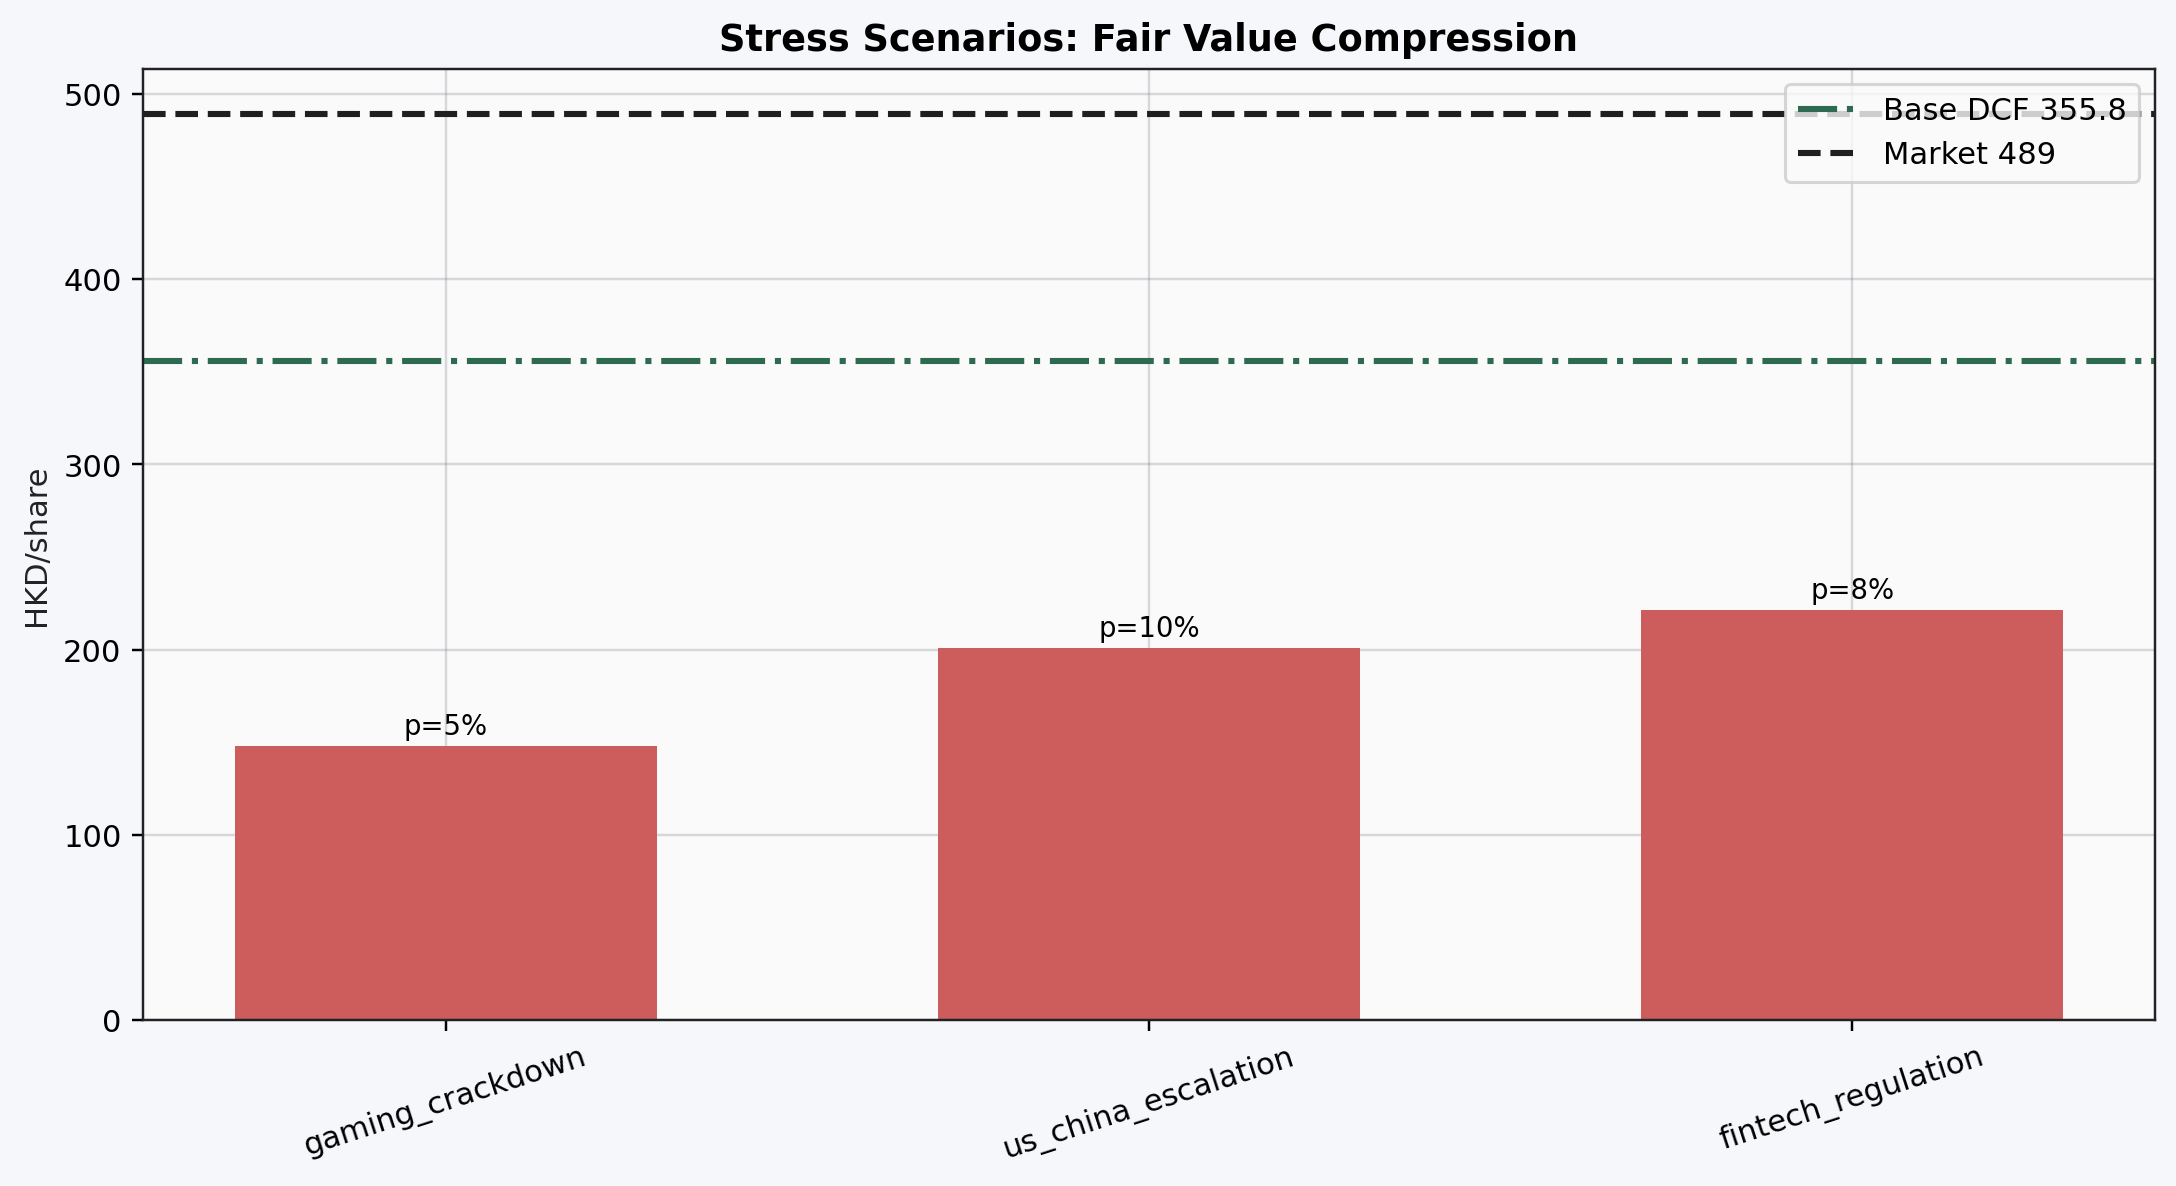
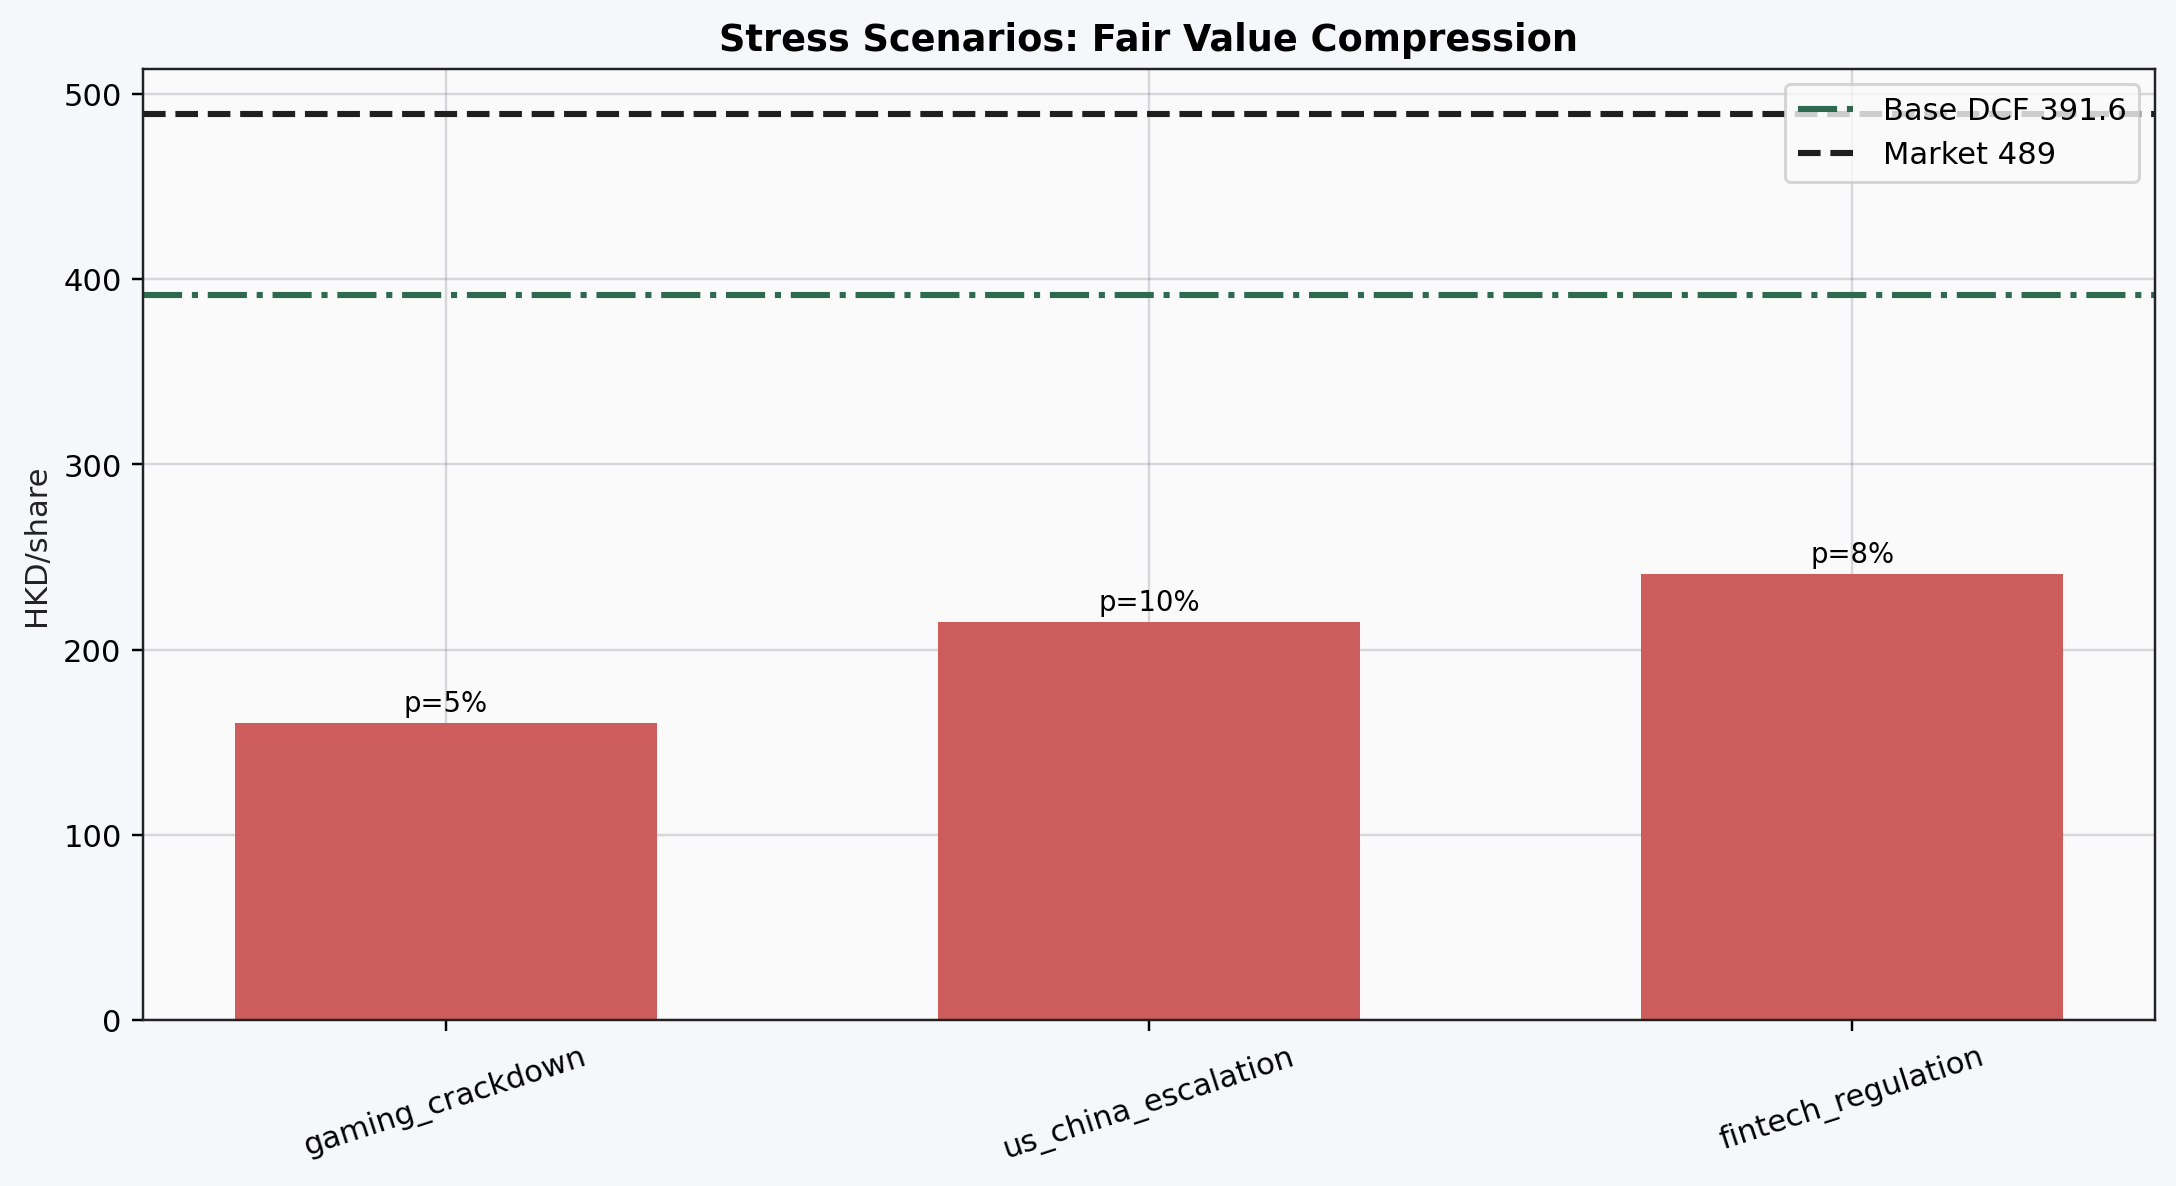
feat: raise base terminal_g to 3.5% and refresh charts
Ensemble base fair value: 386 → 407 HKD (−17% vs spot 489).
QA clean: 0 warnings / 0 failures / investor_grade=True.

diff --git a/README.md b/README.md
@@ -10,17 +10,17 @@
 
 | Method | Fair Value (HKD) | vs. Spot |
 |---|---|---|
-| DCF (FCFF, 7-year) | 355.83 | −27% |
-| APV | 346.39 | −29% |
-| EVA | 367.71 | −25% |
-| Monte Carlo (10k paths) | 362.15 | −26% |
-| Real Options | 366.83 | −25% |
-| Residual Income | 260.50 | −47% |
+| DCF (FCFF, 7-year) | 391.64 | −20% |
+| APV | 373.26 | −24% |
+| EVA | 379.26 | −22% |
+| Monte Carlo (10k paths) | 399.33 | −18% |
+| Real Options | 402.64 | −18% |
+| Residual Income | 268.35 | −45% |
 | SOTP | 445.89 | −9% |
 | Relative (peer comps) | 644.89 | +32% |
-| **Ensemble (QA-weighted)** | **386.18** | **−21%** |
+| **Ensemble (QA-weighted)** | **407.14** | **−17%** |
 
-**Model conclusion:** DCF-based methods cluster at 350–370 HKD. Ensemble fair value of 386 HKD is ~21% below spot — no margin of safety under base assumptions.
+**Model conclusion:** DCF-based methods cluster at 370–400 HKD. Ensemble fair value of 407 HKD is ~17% below spot — no margin of safety under base assumptions. Terminal growth rate: 3.5% (base), 1.0% (bad), 0.0% (extreme).
 
 WACC: `10.48%` | Beta (Vasicek): `1.36` | rf (UST 10Y): `4.13%` | ERP: `4.63%`
 

diff --git a/reports/tencent_investment_memo_2026-04-03.md b/reports/tencent_investment_memo_2026-04-03.md
@@ -19,16 +19,16 @@
 
 | Scenario | Fair Value (HKD/share) | Margin of Safety |
 |---|---:|---:|
-| base | 355.83 | -27.26% |
+| base | 391.64 | -19.94% |
 | bad | 207.01 | -57.68% |
 | extreme | 148.26 | -69.69% |
 
 ## Ensemble Cross-Check
 
-- bad: ensemble `267.37` (range `166.70` to `548.16`).
-- base: ensemble `386.18` (range `260.50` to `644.89`).
-- extreme: ensemble `212.71` (range `124.05` to `451.42`).
-- expected: ensemble `318.58` (range `212.71` to `386.18`).
+- bad: ensemble `271.19` (range `166.70` to `548.16`).
+- base: ensemble `407.14` (range `268.35` to `644.89`).
+- extreme: ensemble `216.52` (range `124.05` to `451.42`).
+- expected: ensemble `330.96` (range `216.52` to `407.14`).
 
 ## Risks
 
